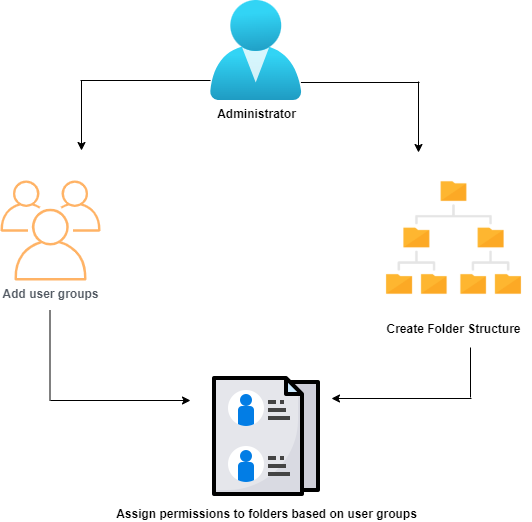
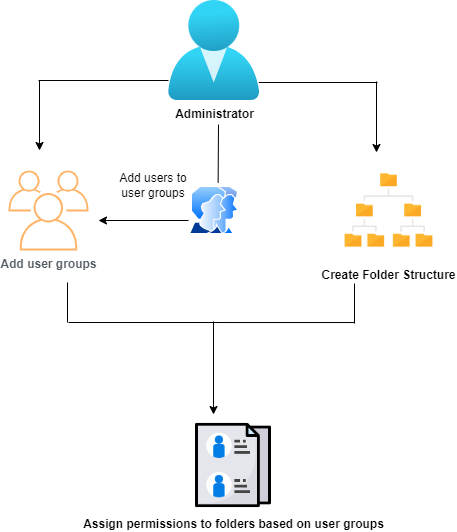
Updated content for the Permissions article

diff --git a/help/manage-permissions.md b/help/manage-permissions.md
@@ -1,6 +1,6 @@
 ---
 title: How to manage permissions for folders in AEM Assets Essentials?
-description: Manage Permissions
+description: Assets Essentials allows the administrators to manage the access levels for folders available in the repository. Create user groups and assign permissions to those groups to manage access levels. As an administrator, you can also delegate the permission management privileges to user groups at the folder-level.
 ---
 # Manage permissions for folders
 
@@ -10,14 +10,75 @@ The following data flow diagram illustrates the sequence of tasks that you perfo
 
 ![Toolbar options when you select an asset](assets/permissions-management.png)
 
-## Add administrators {#add-admin-users}
+## Before managing permissions for folders {#before-managing-permissions}
 
-## Add user groups {#add-user-groups}
+Before you start to manage permissions for folders in your Assets Essentials repository, you must do certain tasks, such as adding administrators who can manage folder permissions for various user groups, create user groups, and create a logical folder structure.
 
-## Create folder structure {#create-folder-structure}
+### Add administrators {#add-admin-users}
 
-Create a folder structure based on the considerations.
+Add administrators for the Assets Essentials application so that they can manage folder permissions for other user groups.
+
+To add administrators:
+
+1. Access [Admin Console](https://adminconsole.adobe.com) for your organization, click **[!UICONTROL Products]** in the top bar, click **[!UICONTROL AEM Assets Essentials]**, and then click [!DNL Assets Essentials] environment. [!DNL Assets Essentials] has three product profiles that represent access for administrators, regular and consumer users.
+
+   ![Admin Console admin profile](assets/admin-console-admin-profile.png)
+  
+1. To add a user to a group, click the Assets Essentials Administrators group, select **[!UICONTROL Add User]**, provide the user details, and click **[!UICONTROL Save]**. 
+
+   ![Add users admin profile](assets/add-users-admin-profile.png)
+
+   When you add a user, the user receives an email invitation to get started. You can turn off the email invitations in the product profile settings in [!DNL Admin Console].
+
+1. To remove a user from a group, click the group, select an existing user, and select **[!UICONTROL Remove User]**.
+
+### Add user groups {#add-user-groups}
+
+Create user groups and assign permissions to those groups to manage folder access levels in the Assets Essentials repository. You can then assign your users to the user groups.
+
+![Add users to groups and product profiles](assets/user-groups-product-profiles.png)
+
+You can add users to user groups (1) and [users to Assets Essentials Product Profiles (2)](#add-admin-users). However, you cannot add user groups directly to Assets Essentials Product Profiles (3).
+
+For information on how to manage user groups, see [Manage user groups](https://helpx.adobe.com/enterprise/using/user-groups.html).
+
+>[!NOTE]
+>
+>If your Admin Console is set up to leverage an external system to manage users/groups assignments, such as Azure or Google connectors, user sync tool or User Management Rest API, your groups and user assignments are configured automatically. For more information, see [Adobe Admin Console users](https://helpx.adobe.com/enterprise/using/users.html)
+
+
+### Add users to groups {#add-users-to-uesr-groups}
+
+After creating user groups, you can start adding users to user groups. 
+
+For information on how to manage adding users to user groups, see [Manage user groups](https://helpx.adobe.com/enterprise/using/user-groups.html). 
+
+### Create folder structure {#create-folder-structure}
+
+You can use the following methods to create a folder structure in the Assets Essentials repository:
+
+* Click the **[!UICONTROL Create Folder]** option available in the toolbar to create an empty folder. 
+
+* Click **[!UICONTROL Add Assets]** option available in the toolbar to [upload a folder structure available on your local machine](add-delete.md).
+
+Create a folder structure that works well with the business objectives for the organization. If you are uploading an existing folder structure to the Assets Essentials repository, you must review the structure. For more information, see [Best practices for effective permissions management](permission-management-best-practices.md).
 
 ## Manage permissions on folders {#manage-permissions-folders}
+
+You can assign the following permissions to the user groups or users (not recommended):
+
+| Permission Name | Description |
+|-----|------|
+| Can View |<ul><li>Read-access to view and navigate folders </li><li>Preview assets</li><li>Download assets</li><li>Copy assets</li><ul>  |
+| Can Edit |<ul><li>All privileges available for Can View permissions </li><li>Create folders</li><li>Remove folders</li><li>Rename folders</li><li>Create assets</li><li>Update assets</li><li>Remove assets</li><ul>  |
+| Owner |  <ul><li>All privileges available for Can Edit permissions</li><li>Manage permissions on a folder and its subfolders</li>This permission allows the administrators to delegate the admininstrator privileges to others for a folder and its subfolders.<ul>|
+| Deny access | Remove Can View, Can Edit, and Owner permissions for a folder and its subfolders. |
+
+### Assign permissions to user groups {#assign-permissions}
+
+To assign permissions to user groups on folders:
+
+1.
+
 
 ## Examples for effective permission management {#example-permission-management}

diff --git a/help/permission-management-best-practices.md b/help/permission-management-best-practices.md
@@ -1,0 +1,6 @@
+---
+title: How to effectively manage folder permissions?
+description: Best practices for effective permissions management
+---
+# Best practices for effective permissions management
+
